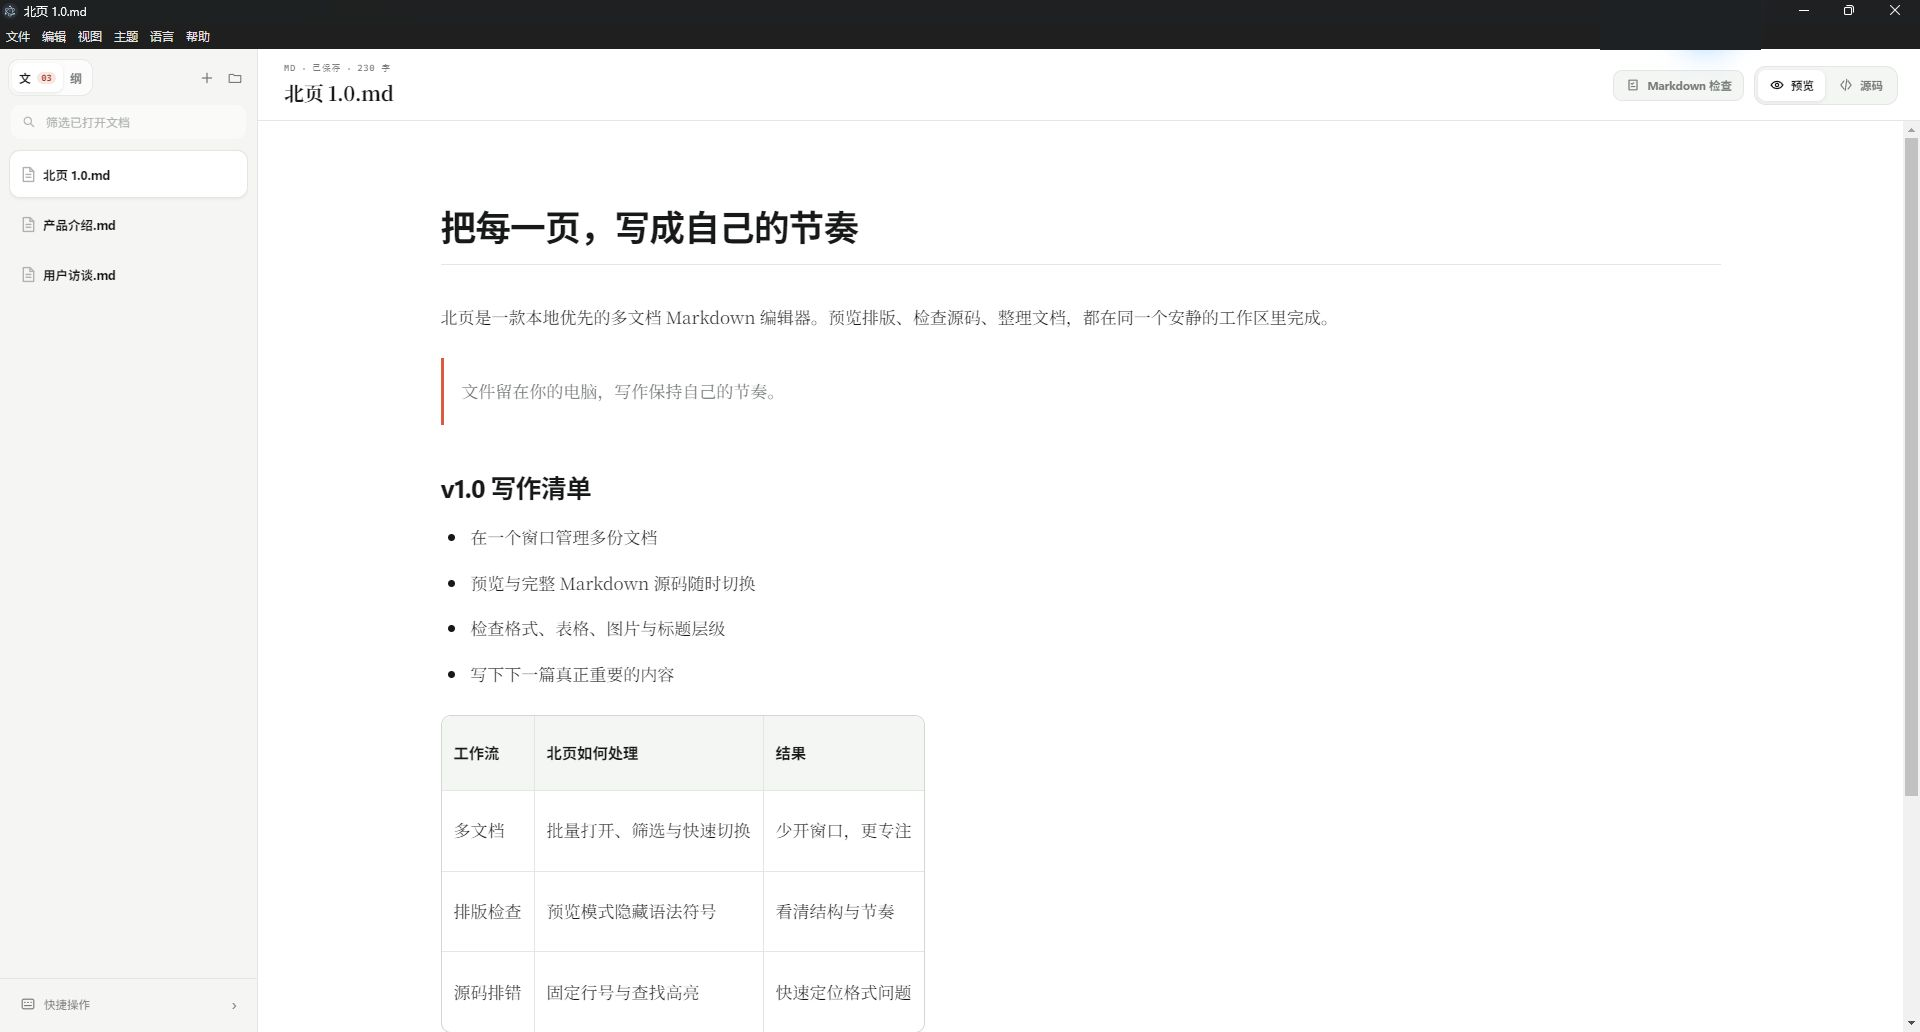
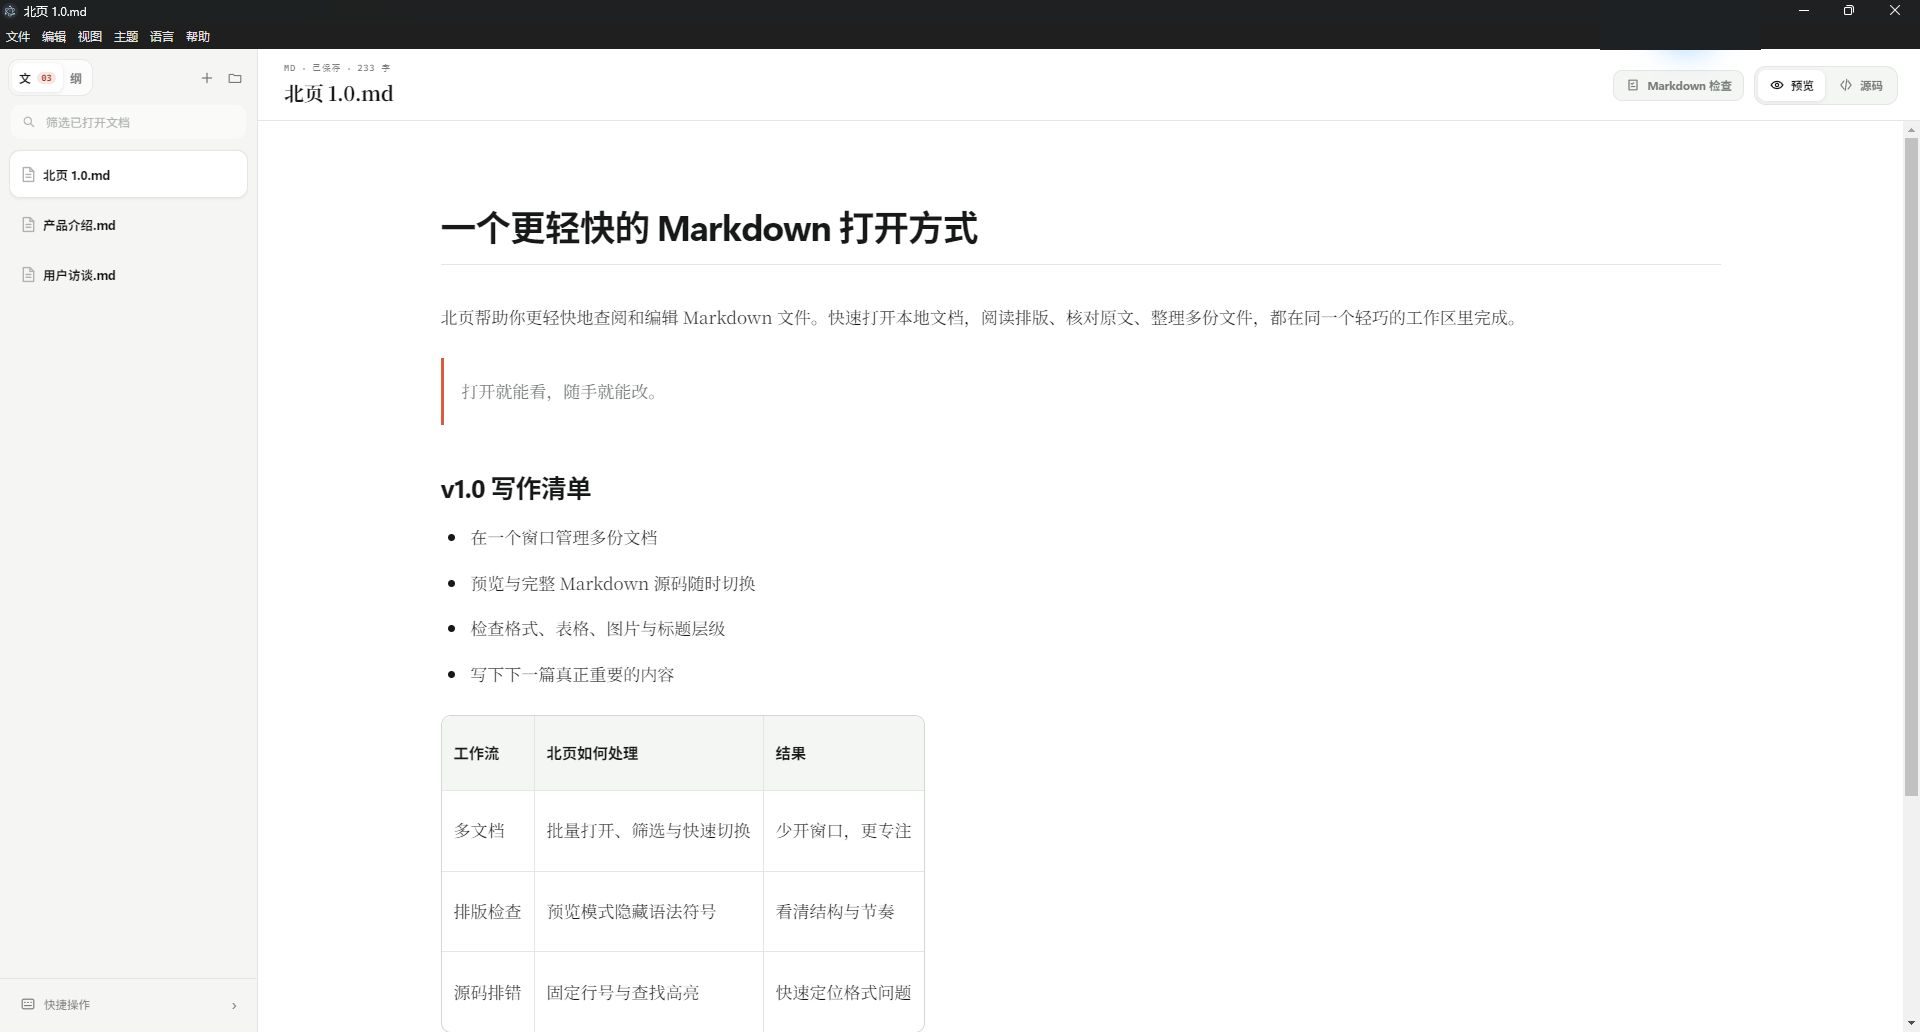
docs: position BeiyeMD as a lighter Markdown opener

diff --git a/scripts/build-release-artwork.py b/scripts/build-release-artwork.py
@@ -82,11 +82,11 @@ def main() -> None:
     draw.text((789, 92), "OPEN SOURCE · v1.0", font=font(18, True), fill=PAPER)
 
     # Headline.
-    draw.text((76, 220), "把每一页，", font=font(78, True), fill=INK)
-    draw.text((76, 320), "写成自己的节奏。", font=font(78, True), fill=INK)
+    draw.text((76, 220), "一个更轻快的", font=font(76, True), fill=INK)
+    draw.text((76, 320), "Markdown 打开方式。", font=font(69, True), fill=INK)
     draw.rectangle((80, 436, 162, 444), fill=CORAL)
-    draw.text((80, 475), "本地优先的多文档 Markdown 编辑器", font=font(31, True), fill=INK)
-    draw.text((80, 528), "不必登录，不必导入。打开本地文件，就可以开始。", font=font(22), fill=MUTED)
+    draw.text((80, 475), "快速启动 · 专注轻巧 · 本地文件", font=font(31, True), fill=INK)
+    draw.text((80, 528), "打开就能查阅，随手就能编辑。", font=font(22), fill=MUTED)
 
     # Product frame.
     screenshot = clean_workspace_screenshot(SCREENSHOT)

diff --git a/README.md b/README.md
@@ -1,8 +1,8 @@
 <div align="center">
   <img src="resources/icon.png" width="104" alt="BeiyeMD logo">
   <h1>BeiyeMD · 北页</h1>
-  <p><strong>Write locally. See the structure. Keep the source honest.</strong></p>
-  <p>A calm, local-first Markdown workspace for people who work across more than one document.</p>
+  <p><strong>A lighter, faster way to open Markdown.</strong></p>
+  <p>A quick-launching local Markdown reader and editor that stays focused on the file.</p>
   <p><strong>English</strong> · <a href="README_CN.md">简体中文</a></p>
   <p>
     <img src="https://img.shields.io/badge/license-MIT-111111" alt="MIT license">
@@ -23,13 +23,13 @@
   <a href="#run-from-source">Run from source</a>
 </p>
 
-BeiyeMD keeps Preview, raw Markdown, and multi-document navigation in one window. It works directly with ordinary files, so your notes remain portable and external tools—including AI coding agents—can participate without an import, export, or proprietary database.
+BeiyeMD helps you read and edit Markdown with less waiting and less clutter. Open local documents quickly, review the formatted page, check the original text, and manage multiple files in one focused window—no import step or proprietary document library required.
 
 ## Version 1.0.0
 
 This is the first stable BeiyeMD release for everyday writing. The multi-document workspace, Preview and Source modes, Markdown checks, resizable tables, and portable image workflow now form one coherent experience. The Windows installer, SHA-256 checksum, and full notes are available from [GitHub Releases](https://github.com/chenzhiyong1994/BeiyeMD/releases/tag/v1.0.0).
 
-- **Start with a file** — no account, migration, or proprietary library.
+- **Open, read, and make a quick edit** — no account, migration, or proprietary library.
 - **Review layout and syntax** — Preview reveals the reading experience; Source adds fixed line numbers and search highlighting.
 - **Stay in one workspace** — batch open, switch, search across documents, and receive live external updates.
 

diff --git a/README_CN.md b/README_CN.md
@@ -1,8 +1,8 @@
 <div align="center">
   <img src="resources/icon.png" width="104" alt="北页 LOGO">
   <h1>北页 · BeiyeMD</h1>
-  <p><strong>文件留在本地，看清排版，也看清源码。</strong></p>
-  <p>为多文档写作而设计的安静、轻量、本地优先 Markdown 工作台。</p>
+  <p><strong>一个更轻快的 Markdown 打开方式。</strong></p>
+  <p>快速启动、专注轻巧的本地 Markdown 阅读与编辑器。</p>
   <p><strong>简体中文</strong> · <a href="README.md">English</a></p>
   <p>
     <img src="https://img.shields.io/badge/许可证-MIT-111111" alt="MIT 许可证">
@@ -23,13 +23,13 @@
   <a href="#从源码启动">从源码运行</a>
 </p>
 
-北页把预览排版、完整 Markdown 源码和多文档管理放进同一个窗口。它直接读写普通文件，不要求导入、不建立私有文档库；其他编辑器和 AI 工具对文件的修改，也能自然回到你的写作流程里。
+北页帮助你更轻快地查阅和编辑 Markdown 文件。快速打开本地文档，在一个专注轻巧的窗口里阅读排版、核对原文、管理多份文件；不要求导入，也不建立私有文档库。
 
 ## 1.0.0 正式版
 
 这是北页第一个面向日常使用的稳定版本：从多文档工作区、预览与源码双模式，到 Markdown 检查、表格列宽和图片尺寸调整，核心写作流程已经连成一体。Windows 安装包、SHA-256 校验值与完整更新说明均发布在 [GitHub Releases](https://github.com/chenzhiyong1994/BeiyeMD/releases/tag/v1.0.0)。
 
-- **打开就能写**：不注册账号，不迁移文档，选择本地 Markdown 文件即可开始。
+- **打开就能看，随手就能改**：不注册账号，不迁移文档，选择本地 Markdown 文件即可开始。
 - **排版和源码不割裂**：预览模式看结构，源码模式用固定行号与查找高亮定位语法。
 - **为多文档而生**：批量打开、快速切换、跨文档搜索和实时外部刷新都在一个窗口完成。
 

diff --git a/resources/release-notes/latest.en.md b/resources/release-notes/latest.en.md
@@ -1,8 +1,8 @@
 # Recent Updates
 
-## v1.0.0 · Write Every Page at Your Own Pace
+## v1.0.0 · A Lighter, Faster Way to Open Markdown
 
-BeiyeMD 1.0 is the first stable release for everyday writing. It reads and writes only the local files you choose, with no account or cloud service required; document management, layout review, source inspection, and quality checks now form one coherent workflow.
+BeiyeMD 1.0 is the first stable release for everyday use, helping you read and edit Markdown with less waiting and less clutter. It opens the local documents you choose without an account or cloud service.
 
 ### Multi-document workspace
 

diff --git a/docs/releases/v1.0.0.md b/docs/releases/v1.0.0.md
@@ -1,8 +1,8 @@
 # BeiyeMD v1.0.0 · 北页正式版
 
-把每一页，写成自己的节奏。
+一个更轻快的 Markdown 打开方式。
 
-北页是一款本地优先的多文档 Markdown 编辑器。1.0.0 将多文档工作区、预览与源码双模式、Markdown 质量检查、表格列宽和图片尺寸调整整合为一套稳定的桌面写作体验。
+北页是一款快速启动、专注轻巧的本地 Markdown 阅读与编辑器。1.0.0 将多文档工作区、预览与源码双模式、Markdown 质量检查、表格列宽和图片尺寸调整整合为一套稳定的桌面体验。
 
 ## 这一版值得体验
 

diff --git a/resources/release-notes/latest.zh-TW.md b/resources/release-notes/latest.zh-TW.md
@@ -1,8 +1,8 @@
 # 最近更新
 
-## v1.0.0 · 把每一頁，寫成自己的節奏
+## v1.0.0 · 一個更輕快的 Markdown 開啟方式
 
-北頁 1.0 是第一個適合日常使用的穩定版本。應用程式只讀寫你所選擇的本機檔案，不需要帳號或雲端服務；多文件管理、排版預覽、原始碼除錯與格式檢查已形成完整工作流程。
+北頁 1.0 是第一個適合日常使用的穩定版本，幫助你更輕快地查閱與編輯 Markdown 檔案。應用程式會快速開啟你所選擇的本機文件，不需要帳號或雲端服務。
 
 ### 多文件工作區
 

diff --git a/resources/release-notes/latest.md b/resources/release-notes/latest.md
@@ -1,8 +1,8 @@
 # 最近更新
 
-## v1.0.0 · 把每一页，写成自己的节奏
+## v1.0.0 · 一个更轻快的 Markdown 打开方式
 
-北页 1.0 是第一个面向日常使用的稳定版本。应用只读写用户选择的本地文件，不依赖账号或云端服务；多文档管理、排版预览、源码排错与格式检查已经形成完整工作流。
+北页 1.0 是第一个面向日常使用的稳定版本，帮助你更轻快地查阅和编辑 Markdown 文件。应用快速打开用户选择的本地文档，不依赖账号或云端服务。
 
 ### 多文档工作区
 

diff --git a/docs/demo/北页 1.0.md b/docs/demo/北页 1.0.md
@@ -1,8 +1,8 @@
-# 把每一页，写成自己的节奏
+# 一个更轻快的 Markdown 打开方式
 
-北页是一款本地优先的多文档 Markdown 编辑器。预览排版、检查源码、整理文档，都在同一个安静的工作区里完成。
+北页帮助你更轻快地查阅和编辑 Markdown 文件。快速打开本地文档，阅读排版、核对原文、整理多份文件，都在同一个轻巧的工作区里完成。
 
-> 文件留在你的电脑，写作保持自己的节奏。
+> 打开就能看，随手就能改。
 
 ## v1.0 写作清单
 
